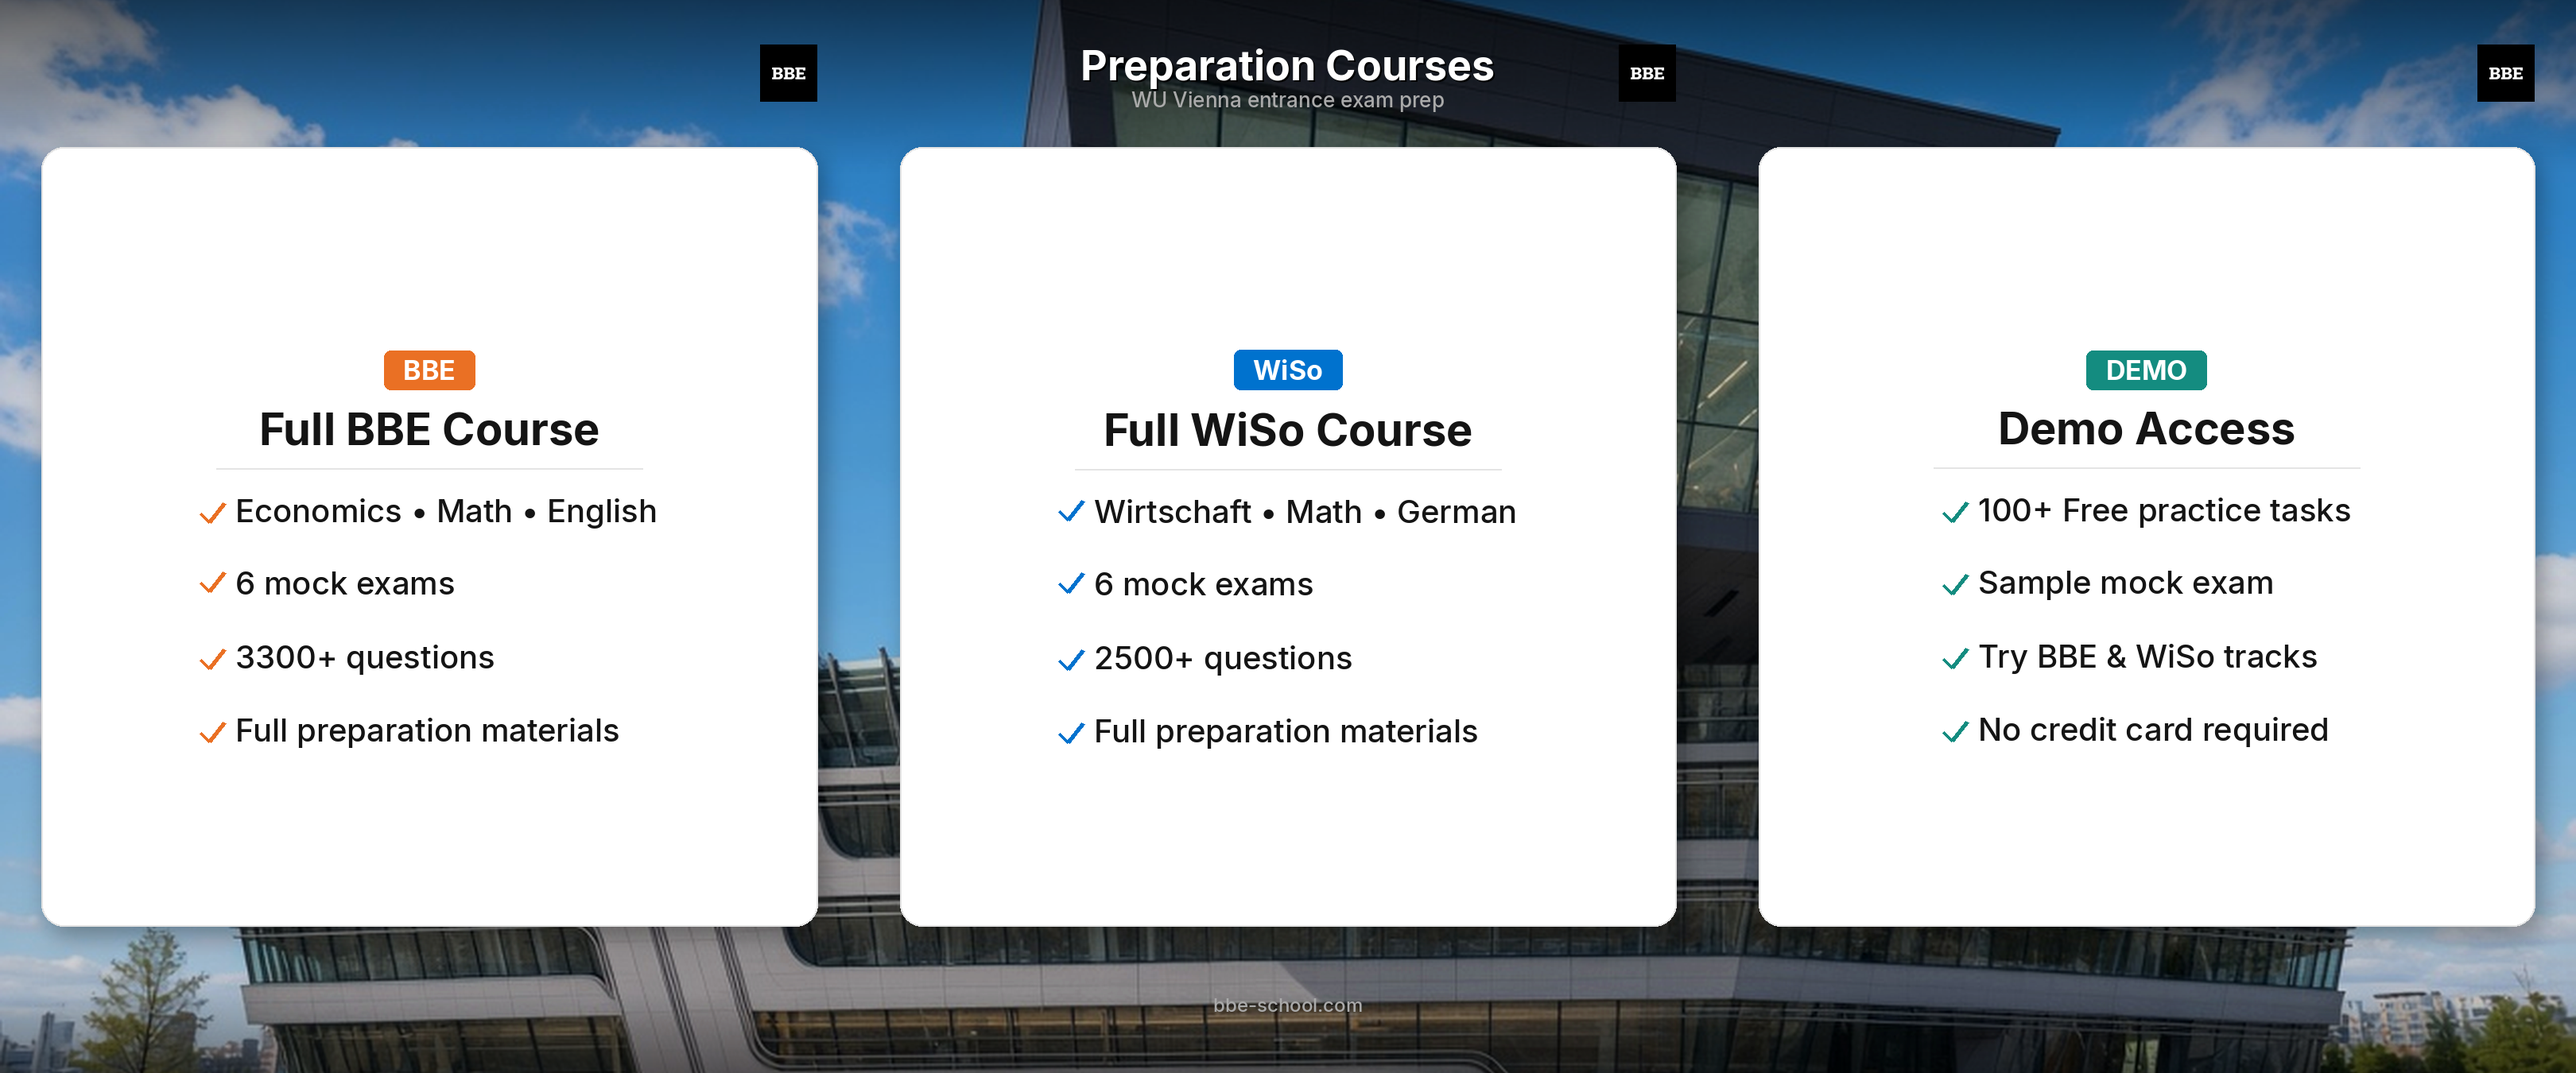
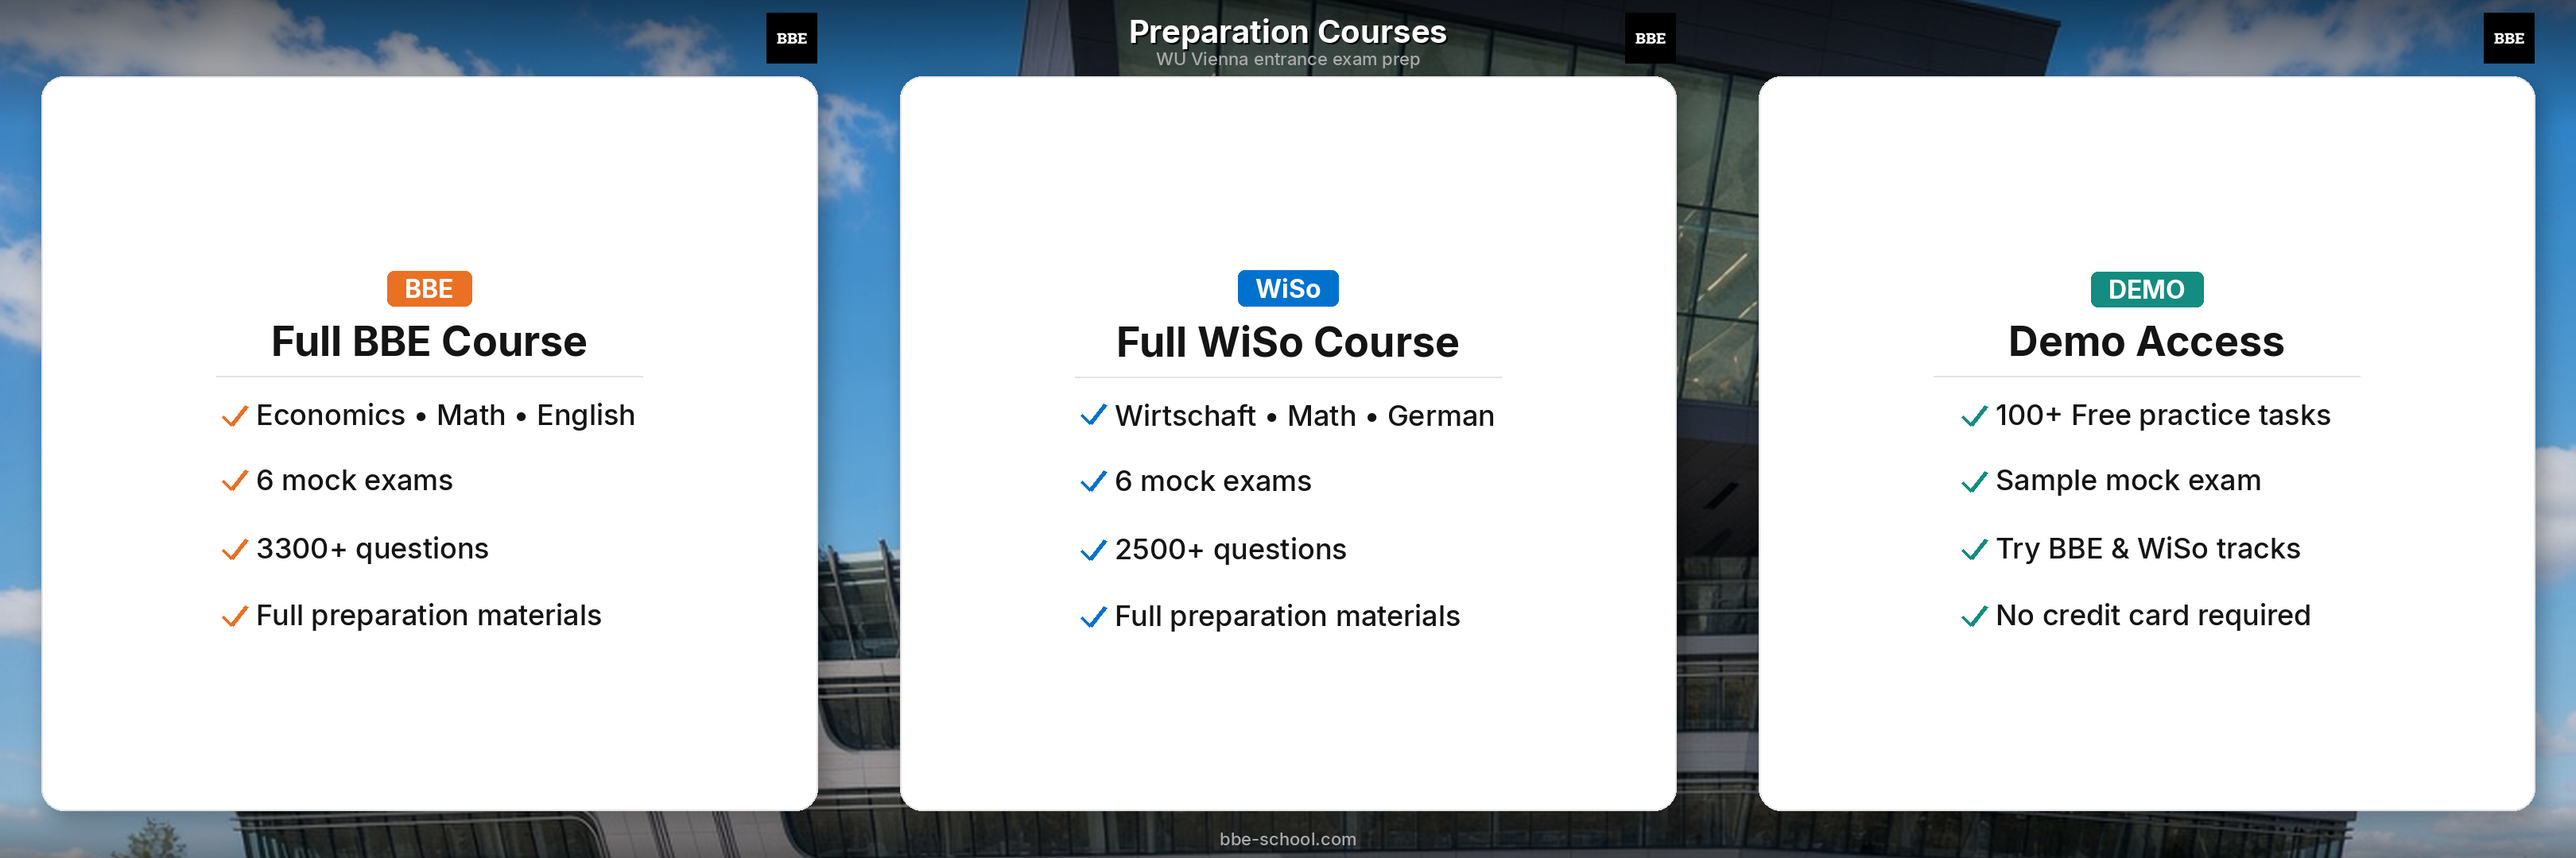
Export Instagram pin tiles as 1080×1080 squares.
Profile grid crops 4:5 posts and cuts off card tops; square 1:1 tiles show the full image with no stretch or crop.

diff --git a/scripts/build_ig_banner_v2.py b/scripts/build_ig_banner_v2.py
@@ -1,10 +1,14 @@
 #!/usr/bin/env python3
 """
-Build Instagram 3-pin banner FROM SCRATCH.
+Build Instagram 3-pin banner — square tiles for the profile grid.
 
-One canvas 3240×1350 → three equal 1080×1350 tiles.
+Instagram profile grid shows 1:1. Portrait 4:5 (1080×1350) gets cropped and
+cuts off the top of each card. We export 1080×1080 so 100% of each tile is visible.
+
+One canvas 3240×1080 → three equal 1080×1080 tiles.
 - Daytime WU campus background
-- White cards geometrically centered in each tile
+- White cards centered in each square
+- Site logo from public/logo.png
 - WiSo accent = true blue (R=0)
 """
 
@@ -24,18 +28,20 @@ BG_CANDIDATES = [
     ROOT / "public" / "wu-vienna" / "campus-plaza.jpg",
 ]
 
+# Instagram profile grid = 1:1 — do NOT use 4:5 here
 TILE = 1080
-H = 1350
+H = TILE
 W = TILE * 3
 
-# Exact layout — card centered in each 1080×1350 tile
+# Equal outer margins so the full card stays inside the square
 SIDE = 52
+TOP_BAND = 96
+BOT_BAND = 60
 CARD_W = TILE - 2 * SIDE  # 976
-CARD_H = 980
-TOP = (H - CARD_H) // 2  # 185
-BOTTOM = H - TOP - CARD_H  # 185  ← equal
+CARD_H = H - TOP_BAND - BOT_BAND  # 924
+TOP = TOP_BAND
+BOTTOM = BOT_BAND
 
-PAD = 52
 ORANGE = (234, 112, 36)
 BLUE = (0, 114, 206)  # true blue, R=0
 TEAL = (20, 140, 128)
@@ -44,6 +50,7 @@ MUTED = (170, 170, 170)
 WHITE = (255, 255, 255)
 CARD_BG = (255, 255, 255)
 BORDER = (228, 228, 228)
+LOGO = 64
 
 FONT_DIR = Path("/usr/share/fonts/truetype/macos")
 
@@ -73,20 +80,18 @@ def make_bg() -> Image.Image:
     im = ImageEnhance.Contrast(im).enhance(1.06)
     im = ImageEnhance.Color(im).enhance(1.05)
 
-    # Soft top/bottom fades for type only — keep daytime look
     overlay = Image.new("RGBA", (W, H), (0, 0, 0, 0))
     d = ImageDraw.Draw(overlay)
-    for y in range(0, 220):
-        a = int(140 * (1 - y / 220))
+    for y in range(0, 160):
+        a = int(130 * (1 - y / 160))
         d.line([(0, y), (W, y)], fill=(0, 0, 0, a))
-    for y in range(H - 100, H):
-        a = int(100 * ((y - (H - 100)) / 100))
+    for y in range(H - 80, H):
+        a = int(90 * ((y - (H - 80)) / 80))
         d.line([(0, y), (W, y)], fill=(0, 0, 0, a))
     return Image.alpha_composite(im.convert("RGBA"), overlay).convert("RGB")
 
 
 def ink_bbox(draw: ImageDraw.ImageDraw, text: str, font: ImageFont.ImageFont) -> tuple[int, int, int, int]:
-    """Return (x0, y0, x1, y1) of glyph ink relative to (0,0)."""
     return draw.textbbox((0, 0), text, font=font)
 
 
@@ -98,20 +103,18 @@ def draw_centered(
     font: ImageFont.ImageFont,
     fill: tuple[int, int, int],
 ) -> tuple[int, int]:
-    """Draw text with ink box centered on (cx, cy). Returns (ink_w, ink_h)."""
     x0, y0, x1, y1 = ink_bbox(draw, text, font)
     tw, th = x1 - x0, y1 - y0
     draw.text((cx - tw / 2 - x0, cy - th / 2 - y0), text, font=font, fill=fill)
     return tw, th
 
 
-def site_logo(size: int = 72) -> Image.Image:
-    """Site BBE logo from public/logo.png — just resized for the banner."""
+def site_logo(size: int = LOGO) -> Image.Image:
     im = Image.open(SITE_LOGO).convert("RGBA")
     return im.resize((size, size), Image.Resampling.LANCZOS)
 
 
-def paste_logo(canvas: Image.Image, x: int, y: int, size: int = 72) -> None:
+def paste_logo(canvas: Image.Image, x: int, y: int, size: int = LOGO) -> None:
     if canvas.mode != "RGBA":
         raise ValueError("canvas must be RGBA to paste logo")
     canvas.alpha_composite(site_logo(size), (x, y))
@@ -130,7 +133,6 @@ def card(
     title: str,
     bullets: list[str],
 ) -> None:
-    # shadow
     sh = Image.new("RGBA", canvas.size, (0, 0, 0, 0))
     sd = ImageDraw.Draw(sh)
     sd.rounded_rectangle(
@@ -152,20 +154,19 @@ def card(
     canvas.alpha_composite(layer)
     draw = ImageDraw.Draw(canvas)
 
-    tag_f = F("Inter-Bold.ttf", 34)
-    title_f = F("Inter-Bold.ttf", 56)
-    body_f = F("Inter-Medium.ttf", 40)
+    tag_f = F("Inter-Bold.ttf", 32)
+    title_f = F("Inter-Bold.ttf", 52)
+    body_f = F("Inter-Medium.ttf", 36)
 
-    GAP_TAG = 28
-    GAP_TITLE = 28
-    GAP_RULE = 36
-    ROW = 92
-    CHECK_W = 44
+    GAP_TAG = 24
+    GAP_TITLE = 24
+    GAP_RULE = 32
+    ROW = 84
+    CHECK_W = 42
     CHECK_H = 28
-    TAG_BX, TAG_BY = 24, 12
-    cx = left + CARD_W / 2  # horizontal center of card
+    TAG_BX, TAG_BY = 22, 10
+    cx = left + CARD_W / 2
 
-    # --- measure ink boxes ---
     tag_x0, tag_y0, tag_x1, tag_y1 = ink_bbox(draw, tag, tag_f)
     tag_tw, tag_th = tag_x1 - tag_x0, tag_y1 - tag_y0
     tag_box_w = tag_tw + TAG_BX * 2
@@ -184,10 +185,8 @@ def card(
     list_h = (len(bullets) - 1) * ROW + bullet_h
     content_h = tag_box_h + GAP_TAG + title_h + GAP_TITLE + 2 + GAP_RULE + list_h
 
-    # Geometric center + small optical nudge (header weight reads high)
-    y = top + (CARD_H - content_h) // 2 + 16
+    y = top + (CARD_H - content_h) // 2 + 10
 
-    # Tag — centered
     tag_x = int(round(cx - tag_box_w / 2))
     draw.rounded_rectangle(
         [tag_x, y, tag_x + tag_box_w, y + tag_box_h],
@@ -197,18 +196,14 @@ def card(
     draw_centered(draw, cx, y + tag_box_h / 2, tag, tag_f, WHITE)
     y += tag_box_h + GAP_TAG
 
-    # Title — centered
     draw_centered(draw, cx, y + title_h / 2, title, title_f, INK)
     y += title_h + GAP_TITLE
 
-    # Rule — centered under title, width from content column
     rule_w = max(int(title_w * 1.05), int(list_w * 0.92), int(CARD_W * 0.55))
     rule_w = min(rule_w, int(CARD_W * 0.78))
     draw.line([(cx - rule_w / 2, y), (cx + rule_w / 2, y)], fill=BORDER, width=2)
     y += 2 + GAP_RULE
 
-    # Bullets — ONE left-aligned column, column itself centered in the card
-    # (so checkmarks form a straight vertical line — "ровно")
     col_left = int(round(cx - list_w / 2))
     for b, bx0, by0, _bw, bh in bullet_meta:
         check_y = y + max(0, (bh - CHECK_H) // 2)
@@ -242,33 +237,30 @@ def build() -> Image.Image:
         ]),
     ]
 
-    # Three identical cards — same TOP, same size, equal SIDE in each tile
     for i, (tag, accent, title, bullets) in enumerate(cards):
         left = i * TILE + SIDE
         card(canvas, left, TOP, tag, accent, title, bullets)
 
-    # Header — centered on full banner, vertically centered in top band
-    title_f = F("Inter-Bold.ttf", 52)
-    sub_f = F("Inter-Medium.ttf", 26)
+    # Header in top band — fully inside the square
+    title_f = F("Inter-Bold.ttf", 40)
+    sub_f = F("Inter-Medium.ttf", 22)
     t = "Preparation Courses"
     tw, th = measure(draw, t, title_f)
     s = "WU Vienna entrance exam prep"
     sw, sh = measure(draw, s, sub_f)
-    block_h = th + 8 + sh
+    block_h = th + 6 + sh
     title_y = (TOP - block_h) // 2
     draw.text(((W - tw) / 2 + 2, title_y + 2), t, font=title_f, fill=(0, 0, 0, 140))
     draw.text(((W - tw) / 2, title_y), t, font=title_f, fill=WHITE)
-    draw.text(((W - sw) / 2, title_y + th + 8), s, font=sub_f, fill=MUTED)
+    draw.text(((W - sw) / 2, title_y + th + 6), s, font=sub_f, fill=MUTED)
 
-    # Site BBE logo pasted on every tile (public/logo.png)
-    LOGO = 72
+    # Site logo on every tile — inside top band, never cropped
     logo_y = (TOP - LOGO) // 2
     for i in range(3):
         logo_x = i * TILE + TILE - SIDE - LOGO
         paste_logo(canvas, logo_x, logo_y, LOGO)
 
-    # Footer centered in bottom margin
-    url_f = F("Inter-Medium.ttf", 24)
+    url_f = F("Inter-Medium.ttf", 22)
     u = "bbe-school.com"
     uw, uh = measure(draw, u, url_f)
     url_y = TOP + CARD_H + (BOTTOM - uh) // 2
@@ -278,18 +270,18 @@ def build() -> Image.Image:
 
 
 def verify(full: Image.Image) -> None:
+    assert full.size == (W, H), full.size
+    assert H == TILE == 1080, (H, TILE)
     arr = np.asarray(full)
-    # WiSo tile = middle — look only in expected card band (ignore logos above)
+
     tile = arr[TOP : TOP + CARD_H, TILE + SIDE : TILE + SIDE + CARD_W]
     white = (tile[:, :, 0] > 245) & (tile[:, :, 1] > 245) & (tile[:, :, 2] > 245)
     assert white.mean() > 0.7, white.mean()
 
-    # Layout constants
-    print(f"layout TOP={TOP} BOTTOM={BOTTOM} SIDE={SIDE} CARD={CARD_W}x{CARD_H}")
-    assert TOP == BOTTOM
-    assert SIDE == (TILE - CARD_W) // 2 or abs(2 * SIDE + CARD_W - TILE) <= 1
+    print(f"layout 1:1 TILE={TILE} TOP={TOP} BOTTOM={BOTTOM} SIDE={SIDE} CARD={CARD_W}x{CARD_H}")
+    assert TOP + CARD_H + BOTTOM == H
+    assert 2 * SIDE + CARD_W == TILE
 
-    # WiSo blue accent somewhere in card (centered content)
     blue_mask = (
         (tile[:, :, 2] > 150)
         & (tile[:, :, 0] < 40)
@@ -302,8 +294,6 @@ def verify(full: Image.Image) -> None:
     assert mean[2] > mean[0] + 80, mean
     assert mean[0] < 40, mean
 
-    # Site logo pasted — dark square with white BBE letters
-    LOGO = 72
     for i in range(3):
         logo_x = i * TILE + TILE - SIDE - LOGO
         logo_y = (TOP - LOGO) // 2
@@ -316,17 +306,24 @@ def verify(full: Image.Image) -> None:
         )
         assert dark.mean() > 0.55, dark.mean()
         assert letters.mean() > 0.05, letters.mean()
-        # corner of site logo is solid black
         assert arr[logo_y + 2, logo_x + 2].max() < 40
 
-    # Content block centered inside each card (ignore border ring)
-    inset = 24
+    # Entire card + logo + footer must sit inside the 1080×1080 square
+    assert TOP >= 0 and BOTTOM >= 0
+    assert TOP + CARD_H <= H
+    assert (TOP - LOGO) // 2 >= 0
+
+    inset = 20
     for i, name in enumerate(["BBE", "WiSo", "Demo"]):
-        card = arr[
+        card_arr = arr[
             TOP + inset : TOP + CARD_H - inset,
             i * TILE + SIDE + inset : i * TILE + SIDE + CARD_W - inset,
         ]
-        ink = ~((card[:, :, 0] > 245) & (card[:, :, 1] > 245) & (card[:, :, 2] > 245))
+        ink = ~(
+            (card_arr[:, :, 0] > 245)
+            & (card_arr[:, :, 1] > 245)
+            & (card_arr[:, :, 2] > 245)
+        )
         ys, xs = np.where(ink)
         assert len(xs) > 200, (name, len(xs))
         inner_w = CARD_W - 2 * inset
@@ -336,17 +333,16 @@ def verify(full: Image.Image) -> None:
         top_pad = int(ys.min())
         bot_pad = int(inner_h - 1 - ys.max())
         print(
-            f"{name} card pads L/R={left_pad}/{right_pad} T/B={top_pad}/{bot_pad} "
-            f"ink_cx={xs.mean():.1f} (mid={inner_w/2:.1f})"
+            f"{name} card pads L/R={left_pad}/{right_pad} T/B={top_pad}/{bot_pad}"
         )
-        # L/R pads of the content column must match (checkmarks form a straight edge)
         assert abs(left_pad - right_pad) <= 12, (name, left_pad, right_pad)
-        # +28 optical nudge → bottom pad slightly smaller than top; still even-ish
-        assert top_pad > 140 and bot_pad > 140, (name, top_pad, bot_pad)
-        assert abs(top_pad - bot_pad) <= 50, (name, top_pad, bot_pad)
-        # ink mean can sit left of mid because checks are left of text — pads matter more
-        assert abs(xs.mean() - inner_w / 2) <= 40, (name, xs.mean())
-    print("VERIFY OK")
+        assert top_pad > 80 and bot_pad > 80, (name, top_pad, bot_pad)
+
+    # Simulate IG grid: square crop of each tile must equal the full tile (no crop)
+    for i in range(3):
+        t = full.crop((i * TILE, 0, (i + 1) * TILE, H))
+        assert t.size == (1080, 1080), t.size
+    print("VERIFY OK — 1:1 tiles, full image visible in IG grid")
 
 
 def main() -> None:
@@ -364,6 +360,7 @@ def main() -> None:
     names = ["01-bbe-full-course", "02-wiso-full-course", "03-demo-access"]
     for i, name in enumerate(names):
         tile = full.crop((i * TILE, 0, (i + 1) * TILE, H))
+        assert tile.size == (1080, 1080)
         tile.save(fresh / f"{name}.jpg", "JPEG", quality=95)
         tile.save(OUT / f"{name}.jpg", "JPEG", quality=95)
         tile.save(OUT / f"{name}.png", "PNG", optimize=True)
@@ -376,7 +373,15 @@ def main() -> None:
     preview.save(fresh / "preview.jpg", "JPEG", quality=92)
     preview.save(OUT / "preview-grid-with-gaps.jpg", "JPEG", quality=92)
 
-    print(f"Wrote fresh set to {fresh}")
+    # Fake IG profile-grid strip (3 squares, no crop)
+    grid = Image.new("RGB", (W, H), (18, 18, 20))
+    for i in range(3):
+        tile = full.crop((i * TILE, 0, (i + 1) * TILE, H))
+        grid.paste(tile, (i * TILE, 0))
+    grid.save(fresh / "ig-grid-1x1.jpg", "JPEG", quality=92)
+    grid.save(OUT / "ig-grid-1x1.jpg", "JPEG", quality=92)
+
+    print(f"Wrote fresh 1:1 set to {fresh}")
     print(f"Also updated {OUT}")
 
 
